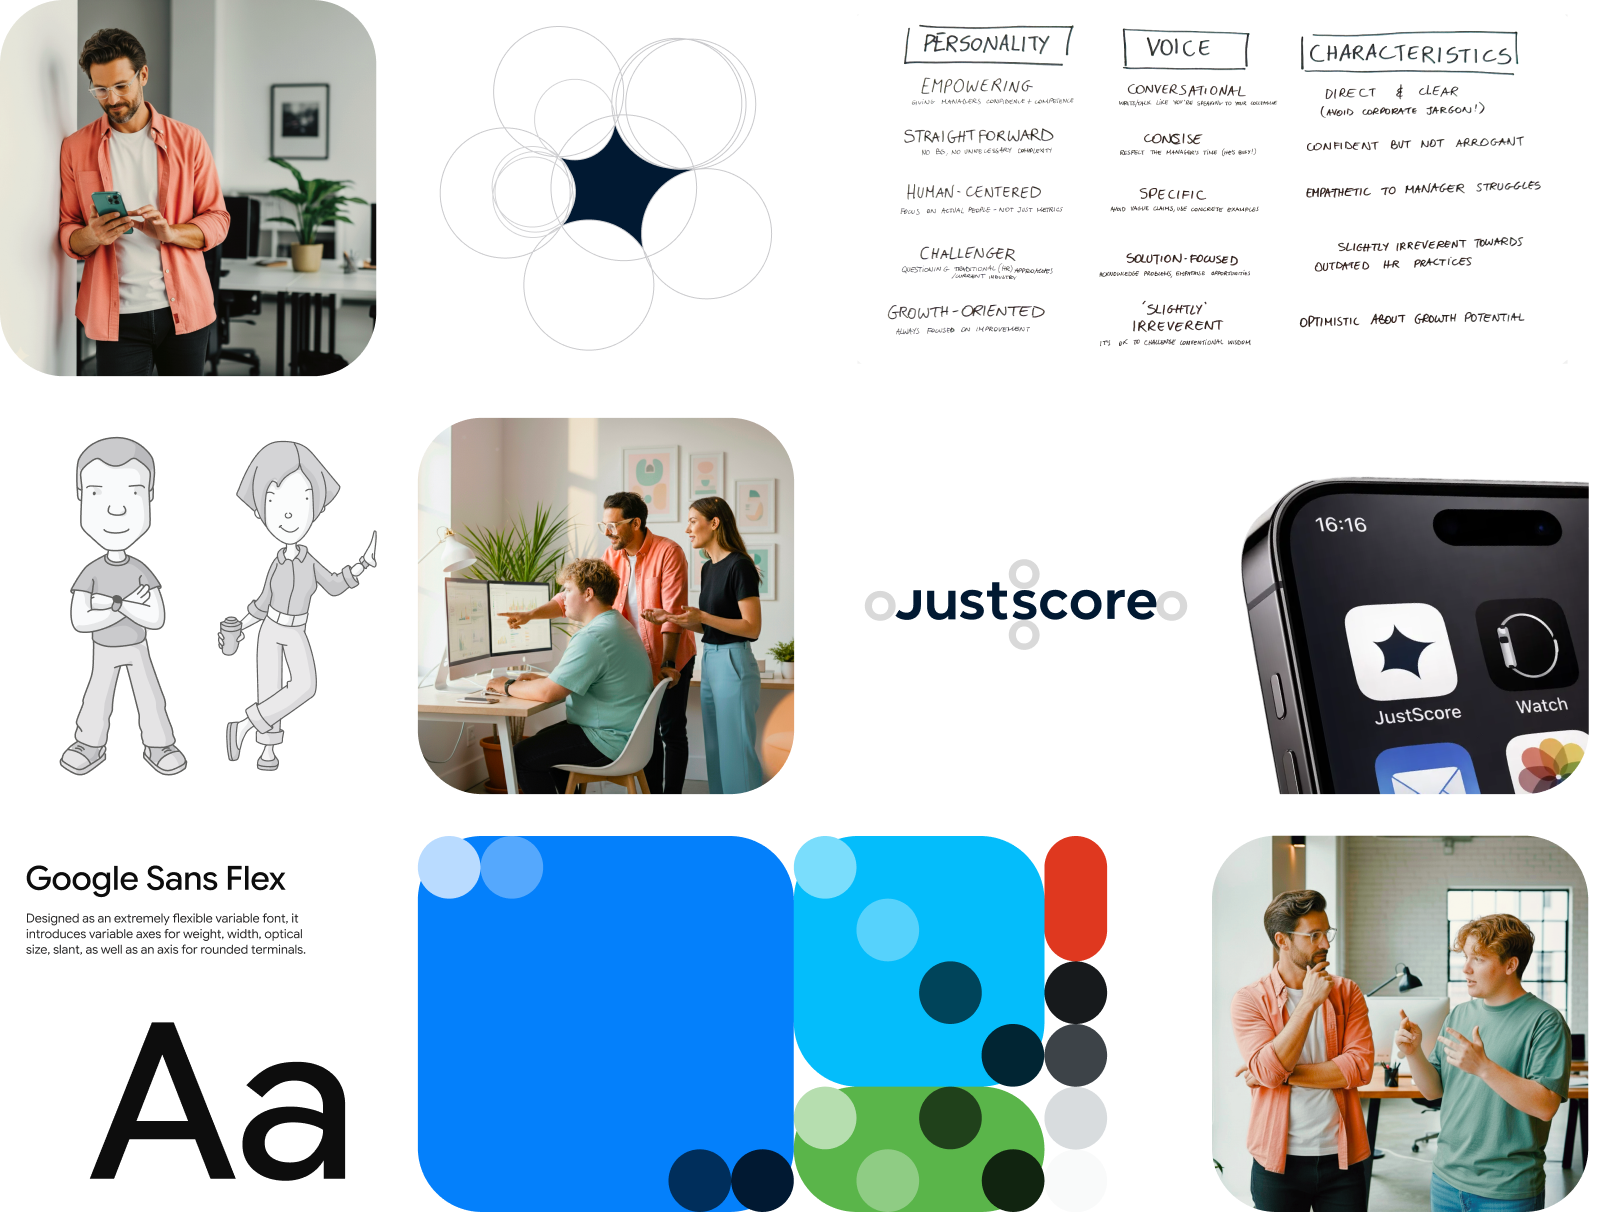
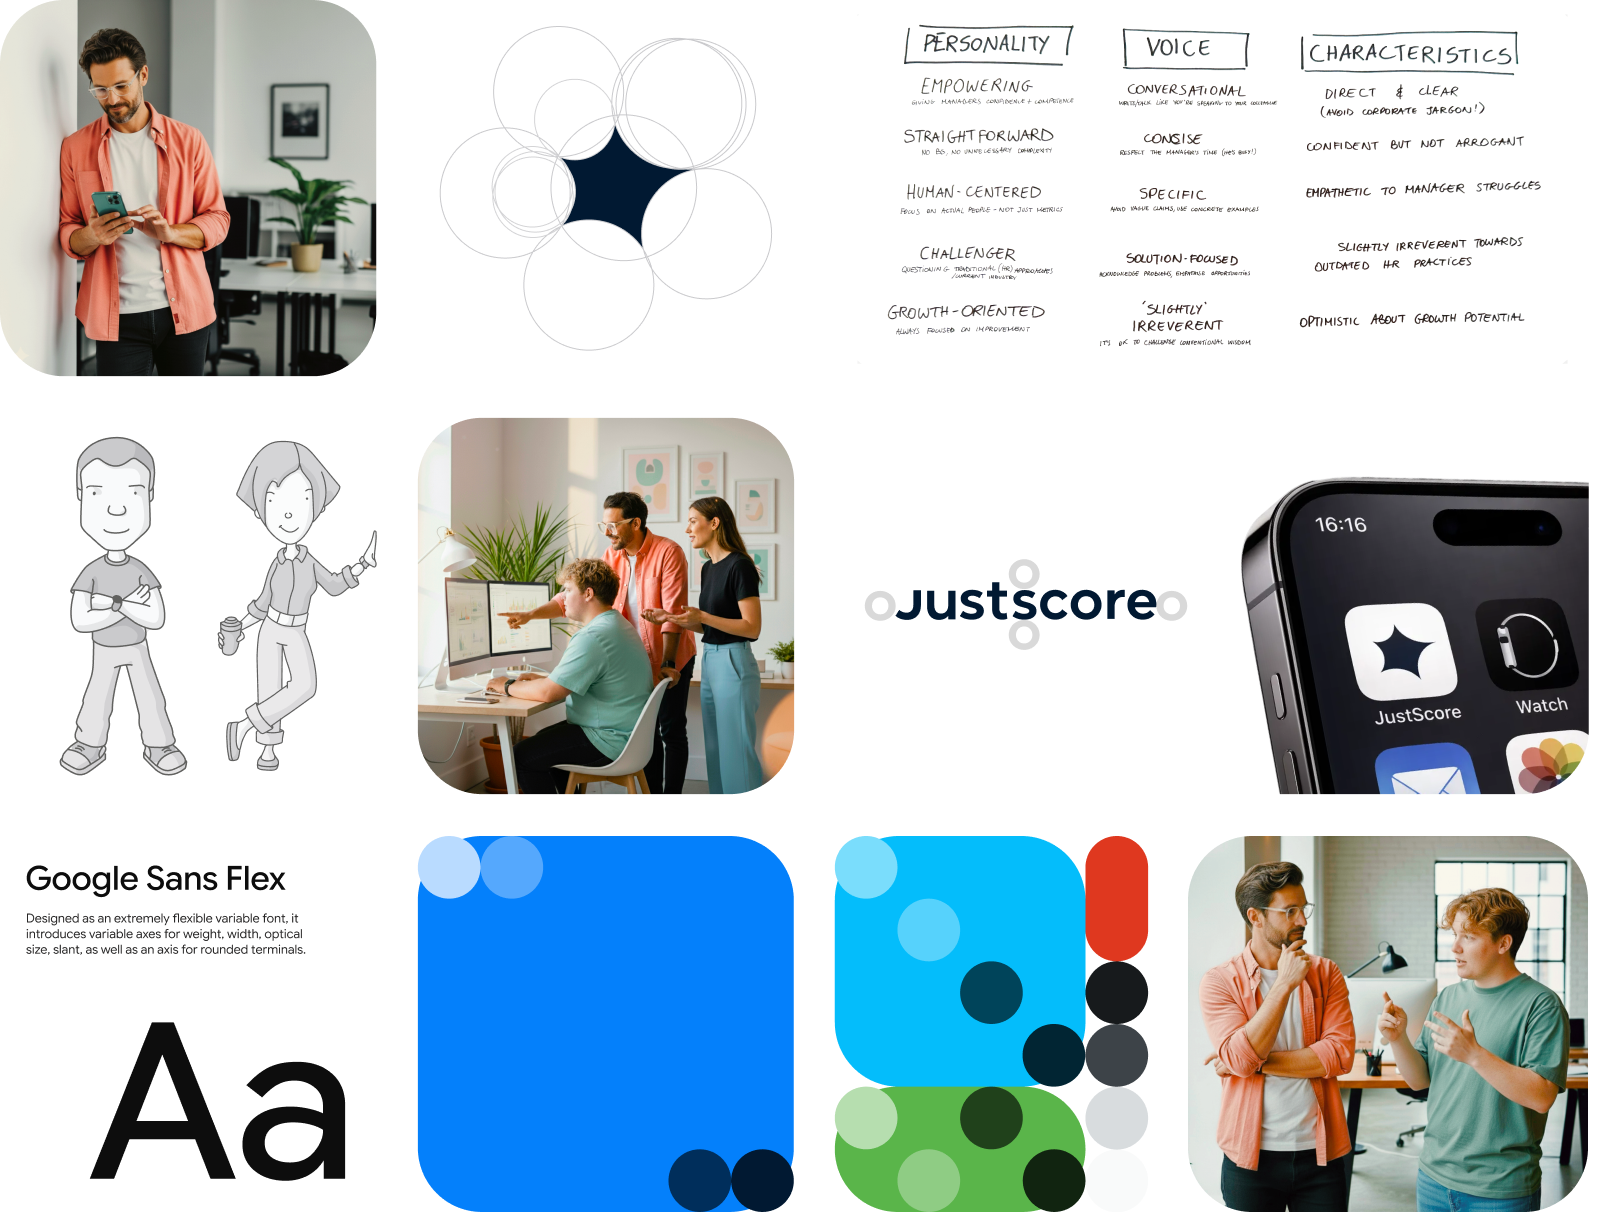
Tablet repsonsive 09/02/26

Changed region(s): [[0.4627, 0.6716, 0.987, 1.0]]

diff --git a/src/components/sections/ProductShowcase/ProductShowcaseDesktop.tsx b/src/components/sections/ProductShowcase/ProductShowcaseDesktop.tsx
@@ -23,7 +23,7 @@ export function ProductShowcaseDesktop({
     description?: string;
     className?: string;
   }) => (
-    <FadeReveal className={`flex h-full flex-col p-6 pb-16 md:px-16 md:py-0 xl:px-24 xl:py-0 space-y-4 md:space-y-0 ${className}`}>
+    <FadeReveal className={`flex h-full flex-col p-6 pb-16 lg:px-16 lg:py-0 xl:px-24 xl:py-0 space-y-4 lg:space-y-0 ${className}`}>
       <div className="flex flex-1 items-center">
         <h3 className="heading-base text-primary">{title}</h3>
       </div>
@@ -74,10 +74,10 @@ export function ProductShowcaseDesktop({
   );
 
   return (
-    <div className="grid grid-cols-1 md:grid-cols-12 md:gap-32 md:pb-24 bg-background">
-      <div className="md:col-start-1 xl:col-start-3 md:col-span-12 xl:col-span-10">
-        <div className="grid grid-cols-1 md:grid-cols-12">
-          <div className="col-span-1 md:col-span-7">
+    <div className="grid grid-cols-1 lg:grid-cols-12 lg:gap-32 lg:pb-24 bg-background">
+      <div className="lg:col-start-1 xl:col-start-3 lg:col-span-12 xl:col-span-10">
+        <div className="grid grid-cols-1 lg:grid-cols-12">
+          <div className="col-span-6 xl:col-span-7">
             <GalleryImage
               image={project.images[items[0]?.imageIndex ?? 0]}
               index={0}
@@ -85,7 +85,7 @@ export function ProductShowcaseDesktop({
               priority
             />
           </div>
-          <div className="col-span-1 md:col-start-8 md:col-span-5 self-stretch">
+          <div className="col-start-7 xl:col-start-8 col-span-3 xl:col-span-5 self-stretch">
             <GalleryText
               title={items[0]?.title}
               description={items[0]?.description}
@@ -94,16 +94,16 @@ export function ProductShowcaseDesktop({
         </div>
       </div>
 
-      <div className="md:col-start-1 xl:col-start-3 md:col-span-12 xl:col-span-10">
-        <div className="grid grid-cols-1 md:grid-cols-12">
-          <div className="col-span-1 md:col-span-5 self-stretch">
+      <div className="lg:col-start-1 xl:col-start-3 lg:col-span-12 xl:col-span-10">
+        <div className="grid grid-cols-1 lg:grid-cols-12">
+          <div className="col-start-1 col-span-3 xl:col-span-5 self-stretch">
             <GalleryText
               title={items[1]?.title}
               description={items[1]?.description}
-              className="md:text-right md:items-end"
+              className="lg:text-right lg:items-end"
             />
           </div>
-          <div className="col-span-1 md:col-start-6 md:col-span-7">
+          <div className="col-start-4 xl:col-start-5 col-span-6 xl:col-span-7">
             <GalleryImage
               image={project.images[items[1]?.imageIndex ?? 0]}
               index={1}
@@ -113,16 +113,16 @@ export function ProductShowcaseDesktop({
         </div>
       </div>
 
-      <div className="md:col-start-1 xl:col-start-3 md:col-span-12 xl:col-span-10">
-        <div className="grid grid-cols-1 md:grid-cols-12">
-          <div className="col-span-1 md:col-span-7">
+      <div className="lg:col-start-1 xl:col-start-3 lg:col-span-12 xl:col-span-10">
+        <div className="grid grid-cols-1 lg:grid-cols-12">
+          <div className="col-span-6 xl:col-span-7">
             <GalleryImage
               image={project.images[items[2]?.imageIndex ?? 0]}
               index={2}
               total={items.length}
             />
           </div>
-          <div className="col-span-1 md:col-start-8 md:col-span-5 self-stretch">
+          <div className="col-start-7 xl:col-start-8 col-span-3 xl:col-span-5 self-stretch">
             <GalleryText
               title={items[2]?.title}
               description={items[2]?.description}
@@ -131,16 +131,16 @@ export function ProductShowcaseDesktop({
         </div>
       </div>
 
-      <div className="md:col-start-1 xl:col-start-3 md:col-span-12 xl:col-span-10">
-        <div className="grid grid-cols-1 md:grid-cols-12">
-          <div className="col-span-1 md:col-span-5 self-stretch">
+      <div className="lg:col-start-1 xl:col-start-3 lg:col-span-12 xl:col-span-10">
+        <div className="grid grid-cols-1 lg:grid-cols-12">
+          <div className="col-start-1 col-span-3 xl:col-span-5 self-stretch">
             <GalleryText
               title={items[3]?.title}
               description={items[3]?.description}
-              className="md:text-right md:items-end"
+              className="lg:text-right lg:items-end"
             />
           </div>
-          <div className="col-span-1 md:col-start-6 md:col-span-7">
+          <div className="col-start-4 xl:col-start-5 col-span-6 xl:col-span-7">
             <GalleryImage
               image={project.images[items[3]?.imageIndex ?? 0]}
               index={3}
